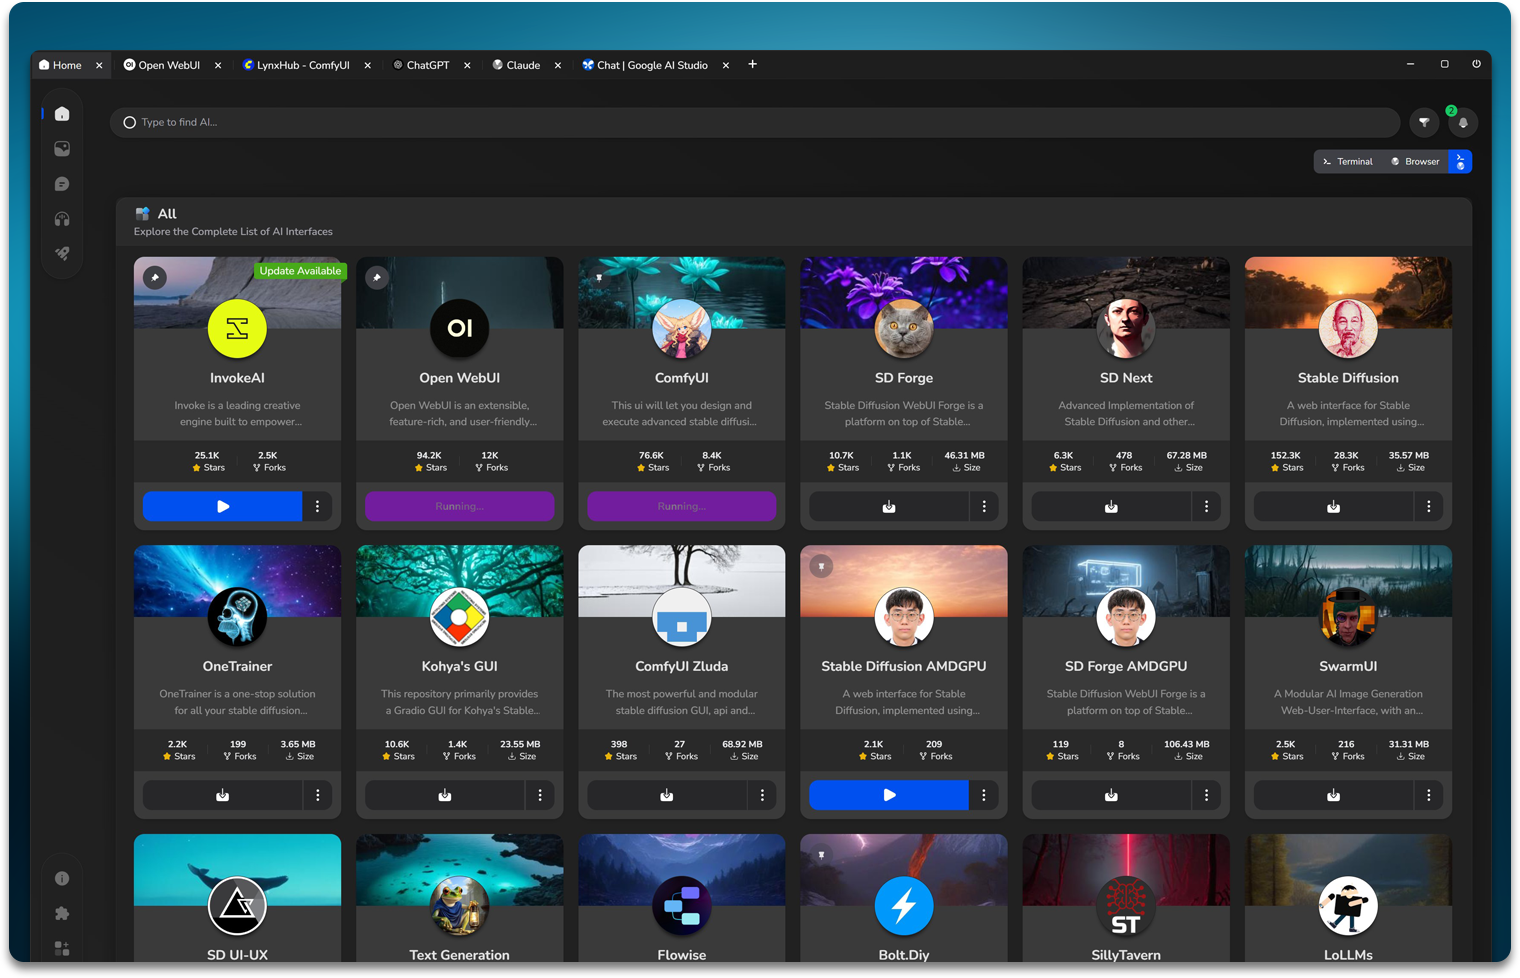
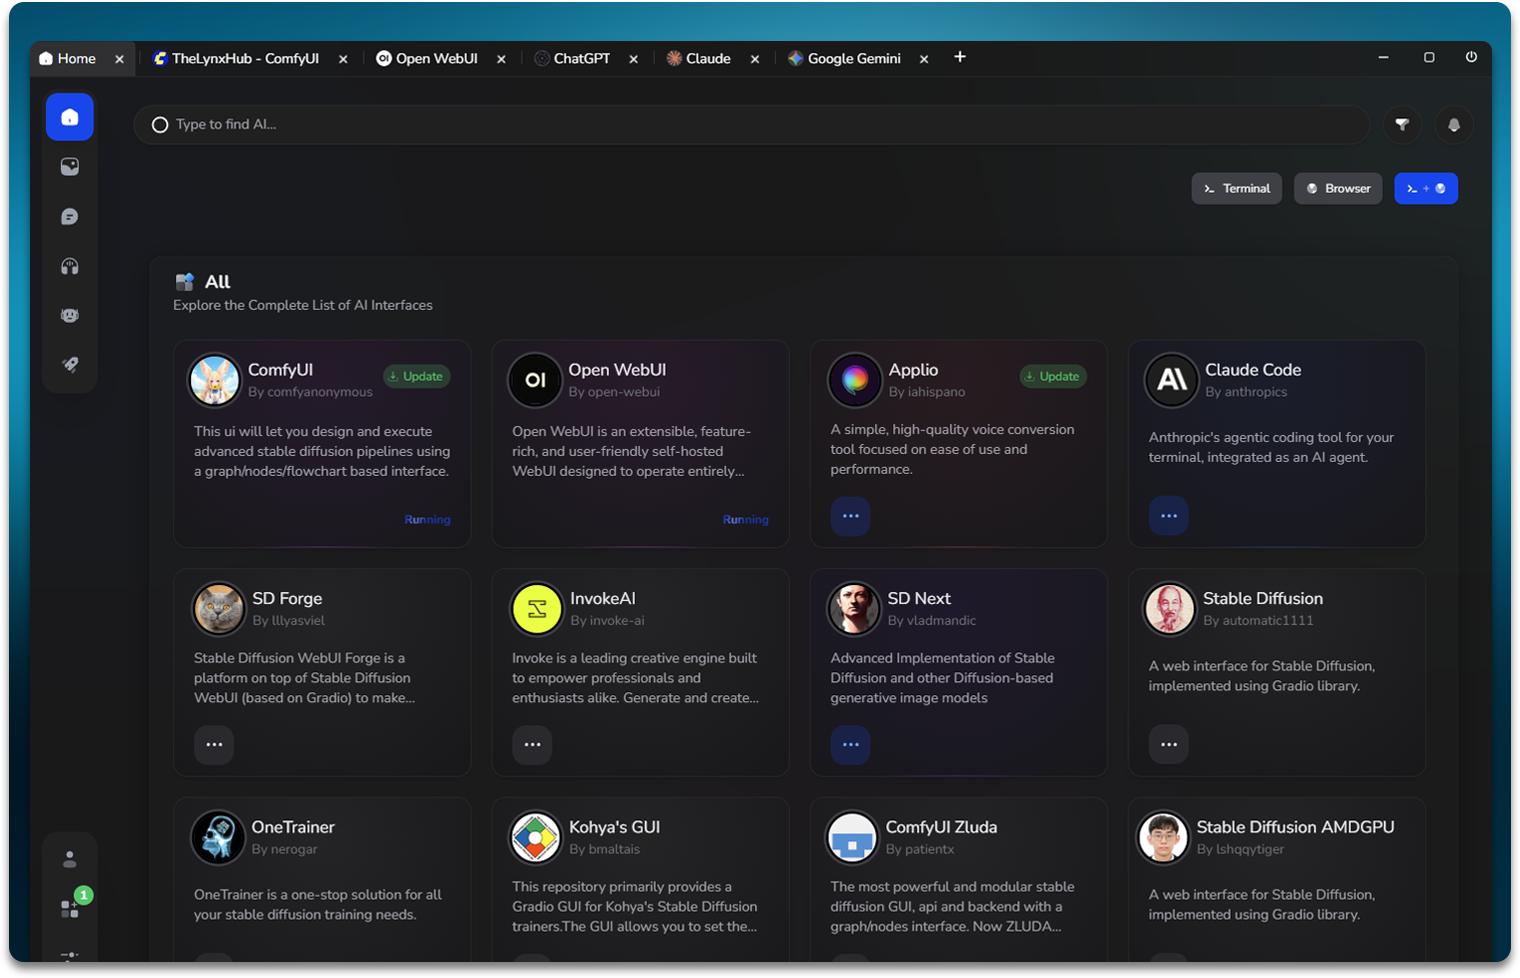
docs(readme): update public version information and update screenshot

diff --git a/README.md b/README.md
@@ -30,7 +30,7 @@
    |--------------|---------------------------------------------------------------------|------------|
    | Insider      | [**V3.4.0 Insider 1**](https://www.patreon.com/collection/1557749)  | 2025-11-17 |
    | Early Access | [**V3.3.0**](https://www.patreon.com/collection/714004)             | 2025-10-24 |
-   | Public       | [**V3.2.0**](https://github.com/KindaBrazy/LynxHub/releases/latest) | 2025-09-29 |
+   | Public       | [**V3.3.0**](https://github.com/KindaBrazy/LynxHub/releases/latest) | 2025-11-30 |
 
 
 3. **Install and Launch the Application**